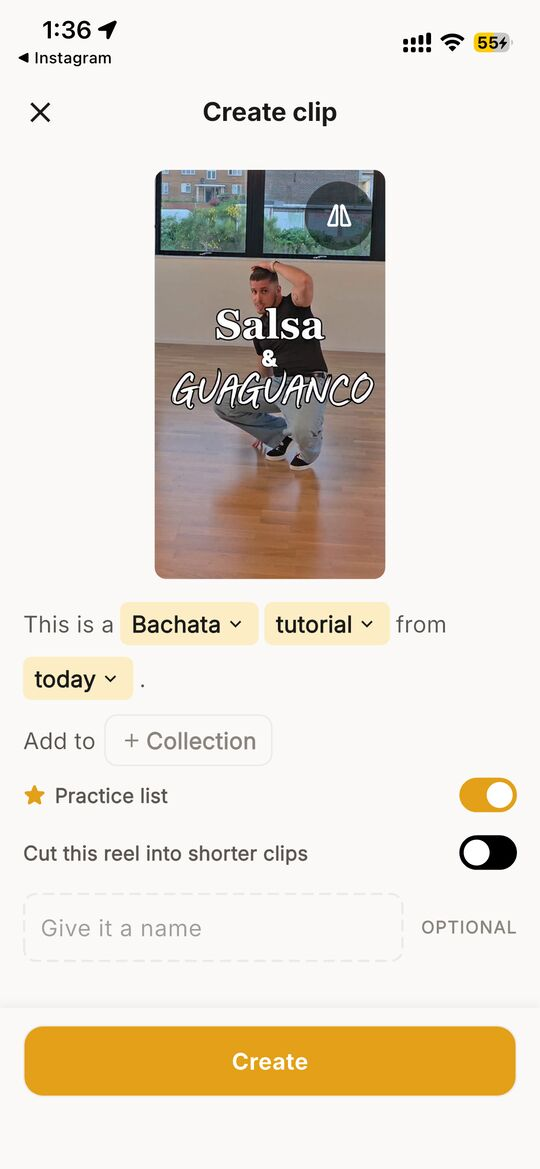
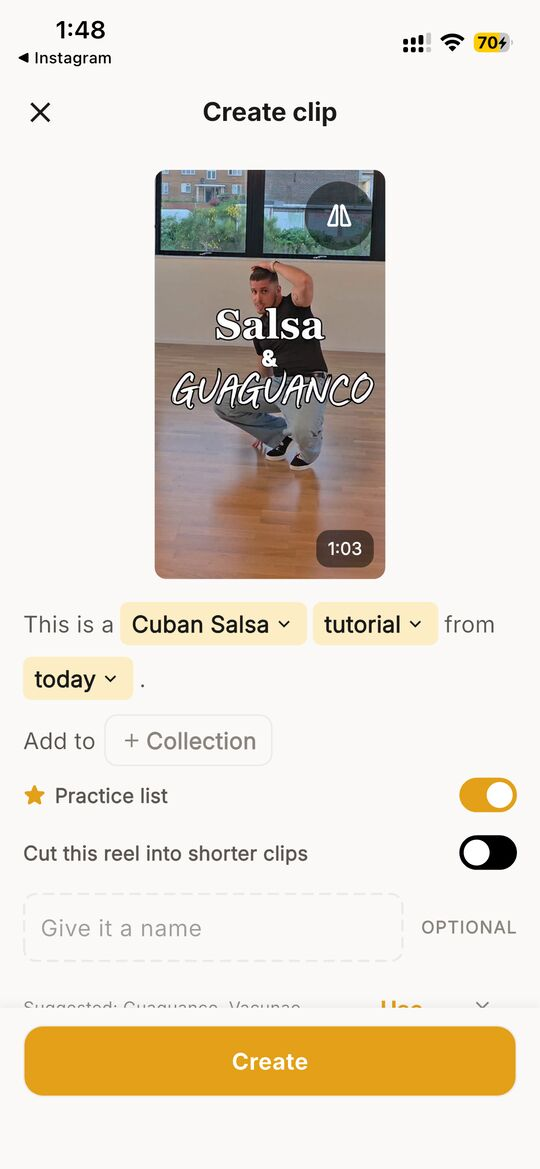
Retake Instagram steps 2 and 3: Cuban Salsa style, move first in Library

diff --git a/index.html b/index.html
@@ -103,12 +103,12 @@
                   </div>
                 </div>
                 <div class="dz-c1-scene dz-c1-s2">
-                  <img src="assets/how/ig-2-create.jpg" alt="Step 2: the Create clip screen, with Practice list switched on, then tap Create">
+                  <img src="assets/how/ig-2-create.jpg?v=2" alt="Step 2: the Create clip screen, marked as a Cuban Salsa tutorial with Practice list switched on, then tap Create">
                   <span class="dz-c1-tap" style="left: 50%; top: 93.1%;" aria-hidden="true"></span>
                 </div>
                 <div class="dz-c1-scene dz-c1-s3">
-                  <img src="assets/how/ig-3-list.jpg" alt="Step 3: the move is on your practice list">
-                  <span class="dz-c1-hi" style="left: 35.8%; top: 81.9%; width: 29.4%; height: 17.2%;" aria-hidden="true"></span>
+                  <img src="assets/how/ig-3-list.jpg?v=2" alt="Step 3: the move is first in your library, starred for your practice list">
+                  <span class="dz-c1-hi" style="left: 4.3%; top: 21.1%; width: 44.1%; height: 26.1%;" aria-hidden="true"></span>
                 </div>
               </div>
               <!-- TODO(#26): replace with step-1-class.mp4 recording (saving a class video from the camera roll) -->
